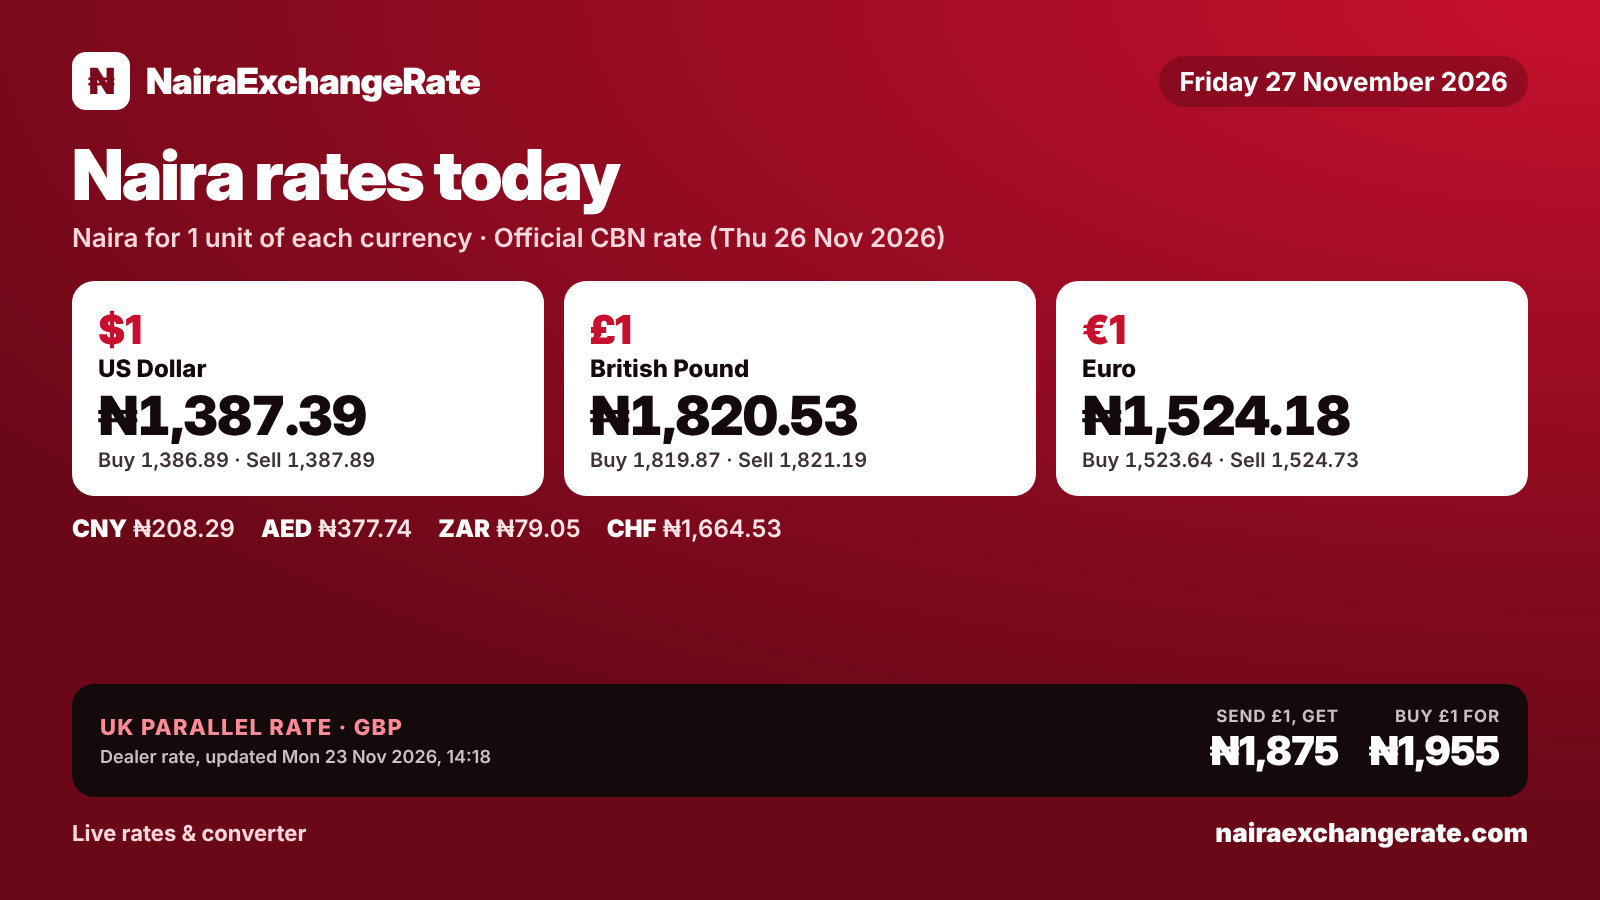
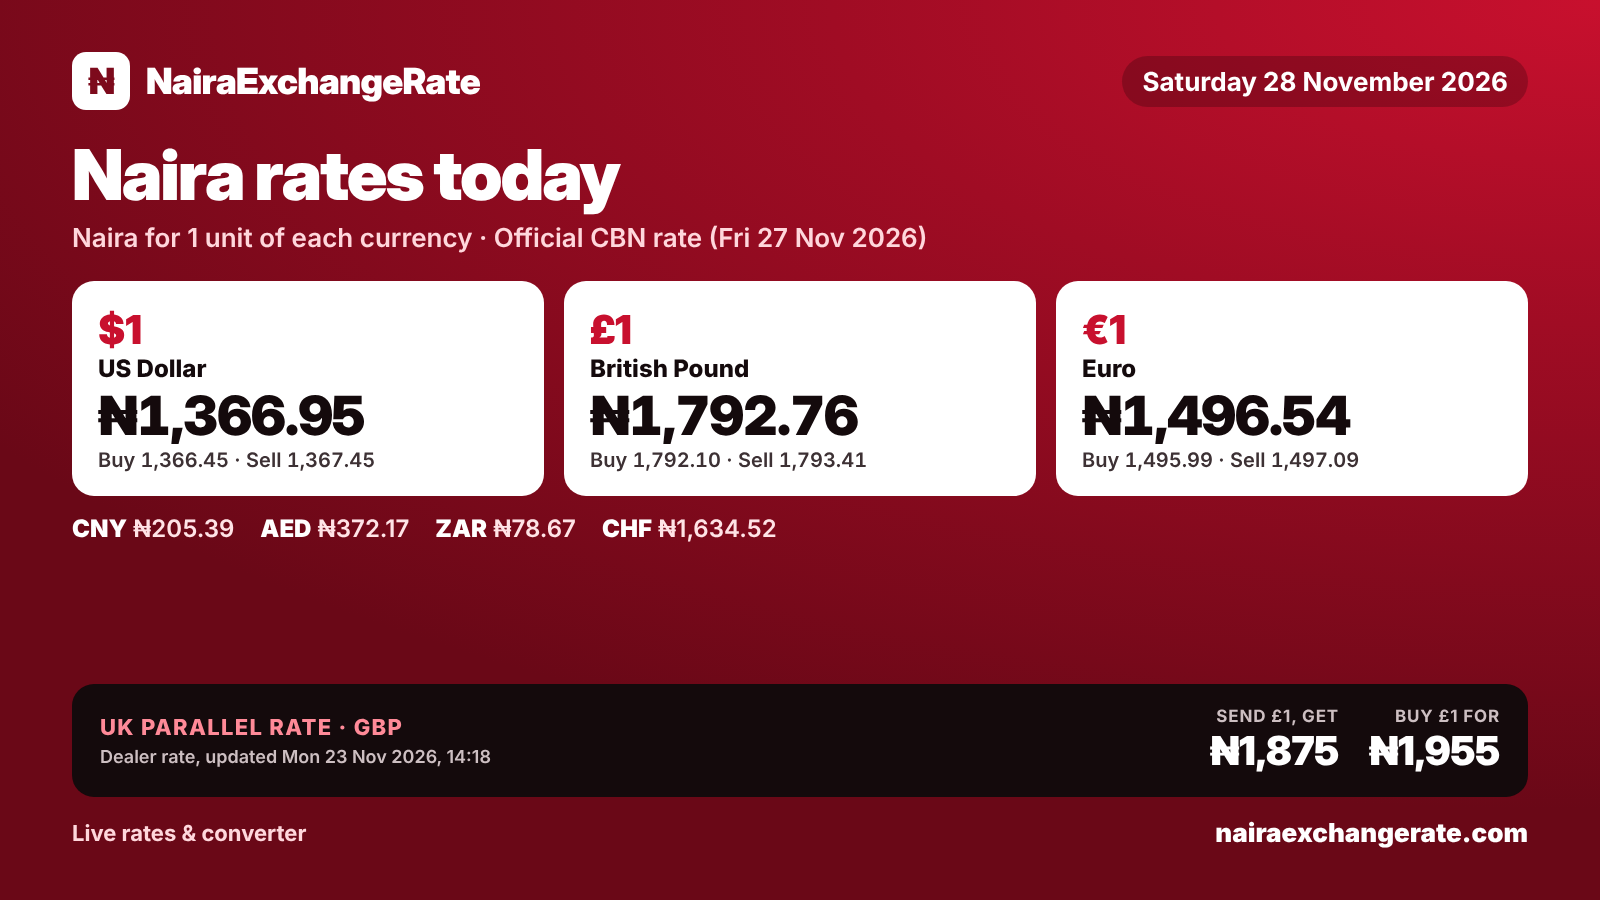
Daily update 2026-11-28
Claude-Session: https://claude.ai/code/session_01NfXuJubtnUR53CGzwGynJE

diff --git a/index.html b/index.html
@@ -359,7 +359,7 @@ footer .wrap{padding-block:22px 34px;font-size:.84rem;color:var(--muted);display
     }
   ],
   "cbn": {
-    "date": "2026-11-26",
+    "date": "2026-11-27",
     "rates": {
       "xof": {
         "buy": 2.3001,
@@ -367,53 +367,81 @@ footer .wrap{padding-block:22px 34px;font-size:.84rem;color:var(--muted);display
         "sell": 2.3201
       },
       "cny": {
-        "buy": 208.2196,
-        "middle": 208.2947,
-        "sell": 208.3697
+        "buy": 205.3149,
+        "middle": 205.39,
+        "sell": 205.4652
       },
       "eur": {
-        "buy": 1523.6355,
-        "middle": 1524.1848,
-        "sell": 1524.7341
+        "buy": 1495.9926,
+        "middle": 1496.54,
+        "sell": 1497.0874
       },
       "jpy": {
-        "buy": 8.71,
-        "middle": 8.7131,
-        "sell": 8.7162
+        "buy": 8.5644,
+        "middle": 8.5676,
+        "sell": 8.5707
       },
       "sar": {
-        "buy": 369.7186,
-        "middle": 369.8519,
-        "sell": 369.9852
+        "buy": 364.232,
+        "middle": 364.3653,
+        "sell": 364.4986
       },
       "zar": {
-        "buy": 79.0245,
-        "middle": 79.053,
-        "sell": 79.0815
+        "buy": 78.6407,
+        "middle": 78.6695,
+        "sell": 78.6982
       },
       "chf": {
-        "buy": 1663.9332,
-        "middle": 1664.5331,
-        "sell": 1665.1329
+        "buy": 1633.9267,
+        "middle": 1634.5246,
+        "sell": 1635.1224
       },
       "gbp": {
-        "buy": 1819.8748,
-        "middle": 1820.5309,
-        "sell": 1821.187
+        "buy": 1792.103,
+        "middle": 1792.7587,
+        "sell": 1793.4145
       },
       "usd": {
-        "buy": 1386.8883,
-        "middle": 1387.3883,
-        "sell": 1387.8883
+        "buy": 1366.4529,
+        "middle": 1366.9529,
+        "sell": 1367.4529
       },
       "aed": {
-        "buy": 377.6003,
-        "middle": 377.7365,
-        "sell": 377.8726
+        "buy": 372.0365,
+        "middle": 372.1726,
+        "sell": 372.3088
       }
     }
   },
   "news": [
+    {
+      "source": "THISDAY",
+      "title": "CBN Hits $1bn Monthly Diaspora Remittance Target, Eyes $1.5billion",
+      "summary": "CBN Governor Cardoso says formal diaspora inflows have reached $1bn a month, with a new $1.5bn monthly goal by mid-2027.",
+      "url": "https://www.thisdaylive.com/2026/11/28/cbn-hits-1bn-monthly-diaspora-remittance-target-eyes-1-5billion/",
+      "date": "2026-11-28"
+    },
+    {
+      "source": "P.M. News",
+      "title": "NGX investors gain N534bn as equities rally, market value hits N159trn",
+      "summary": "Nigerian stocks rebounded on Friday, adding N534bn as the All-Share Index closed at 244,912.17 points.",
+      "url": "https://pmnewsnigeria.com/2026/11/27/ngx-investors-gain-n534bn-as-equities-rally-market-value-hits-n159trn/",
+      "date": "2026-11-27"
+    },
+    {
+      "source": "THISDAY",
+      "title": "Senate Probes LPG Exports as Domestic Supply Falls Short",
+      "summary": "Senators are investigating cooking gas exports after Customs logged about 223.7 metric tonnes shipped out in 2024–2025 amid local shortages.",
+      "url": "https://www.thisdaylive.com/2026/11/27/senate-probes-lpg-exports-as-domestic-supply-falls-short/",
+      "date": "2026-11-27"
+    },
+    {
+      "source": "Investors King",
+      "title": "CBN Appoints Murtala Mohammed Acting Keystone Bank CEO, Assures Depositors Of Funds' Safety",
+      "summary": "The CBN named Murtala Mohammed acting MD of Keystone Bank in place of Hassan Imam and said customers' deposits remain safe.",
+      "url": "https://investorsking.com/2026/11/27/cbn-appoints-murtala-mohammed-acting-keystone-bank-ceo-assures-depositors-of-funds-safety/",
+      "date": "2026-11-27"
+    },
     {
       "source": "Legit.ng",
       "title": "Dangote Refinery Slashes Diesel Price by N125 Per Litre, Dealers to Sell at New Rates",
@@ -427,34 +455,6 @@ footer .wrap{padding-block:22px 34px;font-size:.84rem;color:var(--muted);display
       "summary": "The CBN reportedly injected about $1.3bn in a week after the naira slid towards N1,400/$ on the official market.",
       "url": "https://pmnewsnigeria.com/2026/11/26/cbn-moves-to-rescue-naira-after-dollar-exchange-rate-crosses-n1400/",
       "date": "2026-11-26"
-    },
-    {
-      "source": "Daily Trust",
-      "title": "NGX loses N1.1tn as banking, telecom stocks decline",
-      "summary": "Nigerian stocks shed N1.098tn in value as the All-Share Index fell 0.69% to 243,995.29 points.",
-      "url": "https://dailytrust.com/ngx-loses-n1-1tn-as-banking-telecom-stocks-decline/",
-      "date": "2026-11-26"
-    },
-    {
-      "source": "BusinessDay",
-      "title": "Naira seen strengthening to N1,360 as CBN lifts parallel dollar market supply",
-      "summary": "The official NFEM rate firmed to N1,392.25/$ on Wednesday after the CBN approved a $1m weekly cash dollar allocation for BDCs, with analysts tipping a move towards N1,360.",
-      "url": "https://businessday.ng/business-economy/article/naira-seen-strengthening-to-n1360-as-cbn-lifts-parallel-dollar-market-supply/",
-      "date": "2026-11-26"
-    },
-    {
-      "source": "BusinessDay",
-      "title": "Foreign reserves cool to early-September levels as FX liquidity tightens",
-      "summary": "Nigeria's external reserves slipped to $54.36bn on November 23, about $900m below their October peak.",
-      "url": "https://businessday.ng/business-economy/article/foreign-reserves-cool-to-early-september-levels-as-fx-liquidity-tightens/",
-      "date": "2026-11-26"
-    },
-    {
-      "source": "BusinessDay",
-      "title": "Nigeria's banks drawn deeper into stablecoin rails as cross-border payments shift",
-      "summary": "New CBN rules effective November 5 require foreign-currency stablecoin issuers serving Nigerians to hold reserves with local banks and use a licensed bank as redemption agent.",
-      "url": "https://businessday.ng/technology/article/nigerias-banks-drawn-deeper-into-stablecoin-rails-as-cross-border-payments-shift",
-      "date": "2026-11-25"
     }
   ],
   "whatsappChannel": "https://whatsapp.com/channel/0029VbEJwXxCnA7nV3kcN73I",
@@ -686,6 +686,18 @@ footer .wrap{padding-block:22px 34px;font-size:.84rem;color:var(--muted);display
       "gbp": 1820.5309,
       "usd": 1387.3883,
       "aed": 377.7365
+    },
+    "2026-11-27": {
+      "xof": 2.3101,
+      "cny": 205.39,
+      "eur": 1496.54,
+      "jpy": 8.5676,
+      "sar": 364.3653,
+      "zar": 78.6695,
+      "chf": 1634.5246,
+      "gbp": 1792.7587,
+      "usd": 1366.9529,
+      "aed": 372.1726
     }
   }
 }
